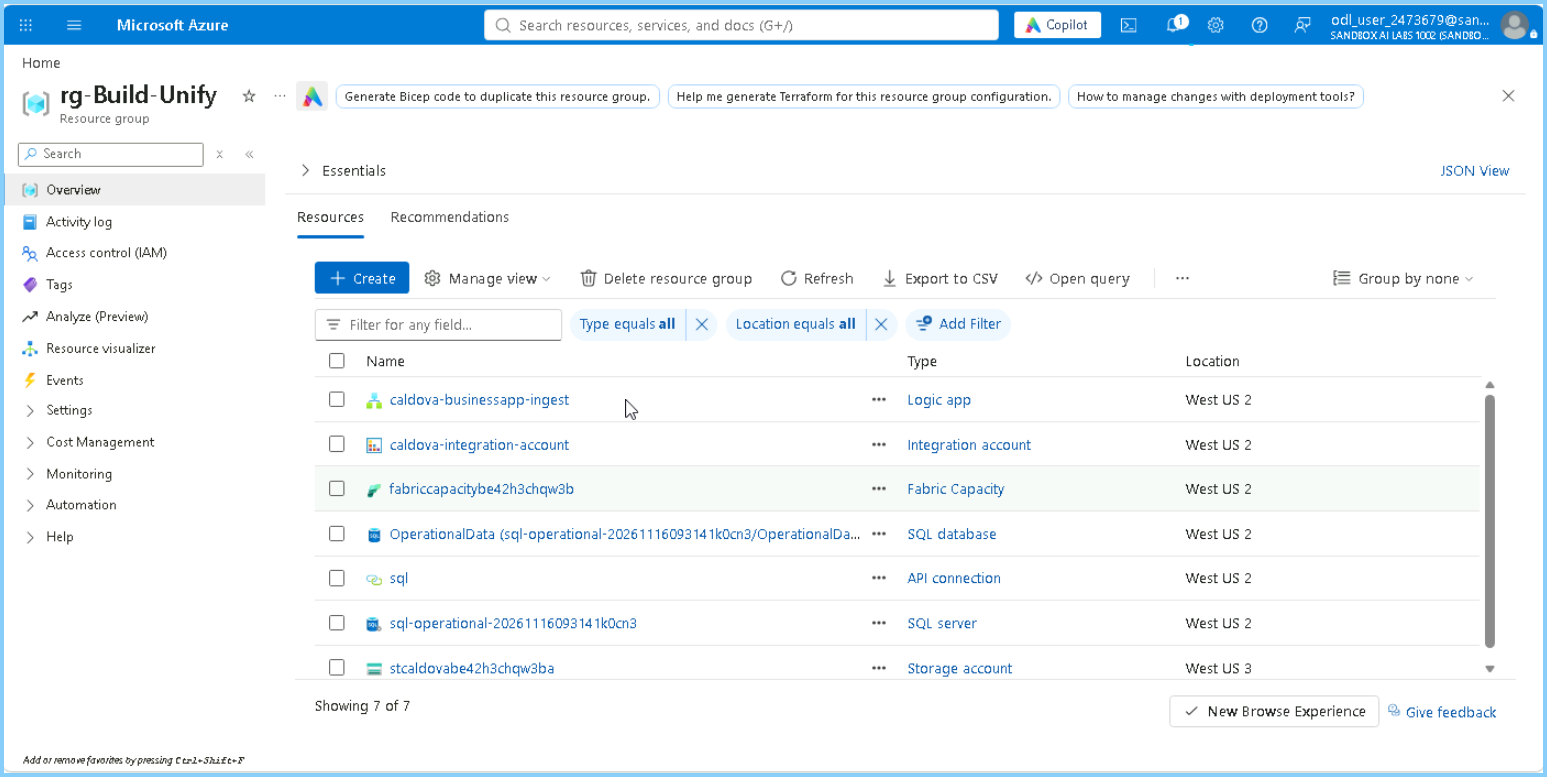
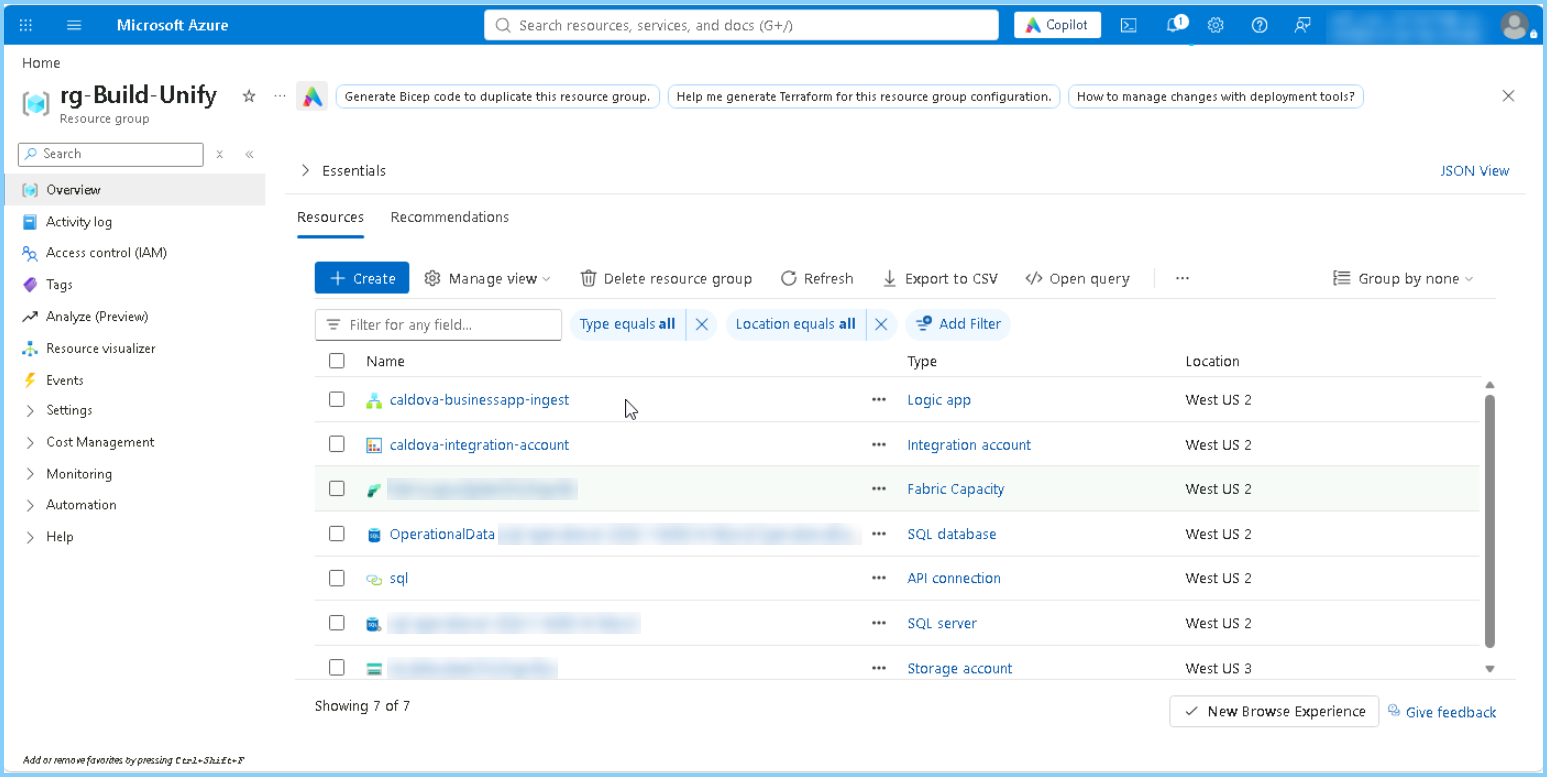
addes the related images for unify and modernize

diff --git a/Build-a-unified-governed-data-and AI-estate/Unify-Package/README.md b/Build-a-unified-governed-data-and AI-estate/Unify-Package/README.md
@@ -6,6 +6,8 @@
 
 1. Start **Visual Studio Code** and select **Terminal** → **New Terminal**.
 
+![New Terminal](images/image8.png)
+
 2. In the VS Code terminal, choose a parent folder for the repository, clone it once, and open the clone in VS Code:
 
 ```powershell
@@ -135,7 +137,19 @@ Before provisioning, the pipeline identifies the Azure CLI deployment identity a
 ## Verify the result
 
 - **Azure portal** → **Resource groups** → `rg-Build-Unify` for Storage, generated SQL Server, Fabric capacity, Logic App, Integration Account, and API connection.
-- **Microsoft Fabric** → **Workspaces** → `Caldova-Build-Unify-<stable-suffix>` for the Lakehouse, Fabric SQL Database, notebook, semantic model, report, and Data Agent.
-- **Fabric Lakehouse** → **Tables** for the unified Delta tables.
 
-![Unify-Package .env](images/image2.png)
+  ![rg-Build-Unify](images/image2.png)
+
+  ![data container](images/image4.png)
+
+  ![Analytical files](images/image5.png)
+
+  ![BusinessApplication files](images/image6.png)
+
+- **Microsoft Fabric** → **Workspaces** → `Caldova-Build-Unify-<stable-suffix>` for the Lakehouse, Fabric SQL Database, notebook, semantic model, report, and Data Agent.
+
+  ![Fabric workspace](images/image7.png)
+
+  ![Data Agent test](images/image3.png)
+
+- **Fabric Lakehouse** → **Tables** for the unified Delta tables.

diff --git a/Modernize-with-confidence/Miq-project-package/README.md b/Modernize-with-confidence/Miq-project-package/README.md
@@ -5,6 +5,9 @@
 ## Run from the VS Code integrated terminal
 
 1. Start **Visual Studio Code** and select **Terminal** → **New Terminal**.
+
+![New Terminal](images/image7.png)
+
 2. In the VS Code terminal, choose a parent folder for the repository, clone it once, and open the clone in VS Code:
 
 ```powershell
@@ -32,6 +35,8 @@ code .env
 ```powershell
 .\up.ps1
 ```
+
+![Deployment output](images/image4.png)
 
 ## 1. Confirm the local tools and source data
 
@@ -137,8 +142,15 @@ The deployment sets the supplied Microsoft Entra administrator on Azure SQL, cre
 ## Verify the result
 
 - **Azure portal** → **Resource groups** → `rg-MWC` for the App Service plan/web app, SQL server/database, and Azure OpenAI account.
+
+  ![rg-MWC](images/image3.png)
+
 - Open the generated `https://app-caldova-ordermgmt-<suffix>.azurewebsites.net` URL printed at completion.
 - In Azure SQL, verify `CaldovaOrderManagement` and `dbo.ProductDescriptionEmbeddings`.
+
+![caldova-launch-planning-agent](images/image5.png)
+
+![caldova-supplier-terms-agent](images/image6.png)
 
 ## Additional deployment details
 
